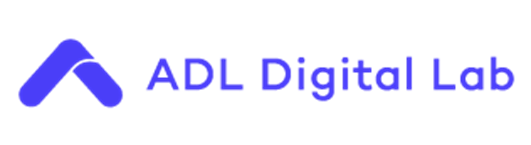
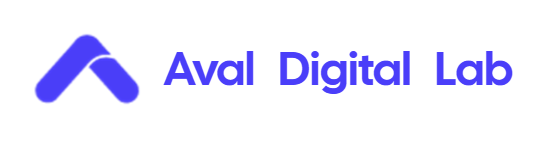
Refactor code structure for improved readability and maintainability

Changed region(s): [[0.0301, 0.2254, 0.9944, 0.7606]]

diff --git a/src/index.css b/src/index.css
@@ -10,7 +10,8 @@
     --card-foreground: 222.2 84% 4.9%;
     --popover: 0 0% 100%;
     --popover-foreground: 222.2 84% 4.9%;
-    --primary: 262.1 83.3% 57.8%; /* ADL: #6941C6 */
+  /* Primary updated to #4A3EF9 */
+  --primary: 244 94% 61%; /* #4A3EF9 in HSL */
     --primary-foreground: 210 40% 98%;
     --secondary: 210 40% 96.1%;
     --secondary-foreground: 222.2 47.4% 11.2%;
@@ -22,7 +23,7 @@
     --destructive-foreground: 210 40% 98%;
     --border: 214.3 31.8% 91.4%;
     --input: 214.3 31.8% 91.4%;
-    --ring: 262.1 83.3% 57.8%; /* ADL: #6941C6 */
+  --ring: 244 94% 61%; /* match primary */
     --radius: 0.5rem;
     
     /* Custom: Sidebar */
@@ -43,8 +44,8 @@
     --danger-light: 0 90.6% 97.5%; /* #FEF2F2 */
     --danger-foreground: 210 40% 98%;
     
-    /* Custom: Primary Light */
-    --primary-light: 262.1 83.3% 96%; /* Lightest version of #6941C6 */
+  /* Custom: Primary Light */
+  --primary-light: 244 100% 97%; /* Lightest version of #4A3EF9 */
   }
  
   .dark {
@@ -54,7 +55,7 @@
     --card-foreground: 210 40% 98%;
     --popover: 222.2 84% 4.9%;
     --popover-foreground: 210 40% 98%;
-    --primary: 262.1 83.3% 57.8%;
+  --primary: 244 94% 61%;
     --primary-foreground: 222.2 47.4% 11.2%;
     --secondary: 217.2 32.6% 17.5%;
     --secondary-foreground: 210 40% 98%;
@@ -66,7 +67,7 @@
     --destructive-foreground: 210 40% 98%;
     --border: 217.2 32.6% 17.5%;
     --input: 217.2 32.6% 17.5%;
-    --ring: 262.1 83.3% 57.8%;
+  --ring: 244 94% 61%;
     
     /* Custom: Sidebar */
     --sidebar: 222.2 84% 4.9%;
@@ -86,8 +87,8 @@
     --danger-light: 0 90.6% 20%;
     --danger-foreground: 210 40% 98%;
     
-    /* Custom: Primary Light - Darker for dark mode */
-    --primary-light: 262.1 83.3% 25%;
+  /* Custom: Primary Light - Darker for dark mode */
+  --primary-light: 244 94% 30%;
   }
 }
  

diff --git a/src/components/casos-uso/CasoUso.tsx b/src/components/casos-uso/CasoUso.tsx
@@ -1209,14 +1209,20 @@ const CasoUso: React.FC<CasoUsoProps> = ({ tipo, displayTitle }) => {
     <div className="container mx-auto p-6 space-y-6 h-full">
       <div className="flex flex-col space-y-4">
         <div className="flex items-center space-x-4">
-          <div className={`w-4 h-4 rounded-full ${casoInfo.color}`} />
-          <div>
-            <h1 className="text-3xl font-bold" title={casoInfo.nombre}>{tituloVisible}</h1>
-            <p className="text-muted-foreground">{displayTitle ? `Vista temporal basada en plantilla ${casoInfo.nombre}` : casoInfo.descripcion}</p>
-          </div>
-          <Badge variant="outline" className="text-green-600 border-green-600 ml-auto">
-            Activo
-          </Badge>
+          {!displayTitle && (
+            <div className={`w-4 h-4 rounded-full ${casoInfo.color}`} />
+          )}
+          {!displayTitle && (
+            <div>
+              <h1 className="text-3xl font-bold" title={casoInfo.nombre}>{tituloVisible}</h1>
+              <p className="text-muted-foreground">{displayTitle ? `Vista temporal basada en plantilla ${casoInfo.nombre}` : casoInfo.descripcion}</p>
+            </div>
+          )}
+          {!displayTitle && (
+            <Badge variant="outline" className="text-green-600 border-green-600 ml-auto">
+              Activo
+            </Badge>
+          )}
         </div>
 
         {/* Métricas por Pestañas - Ocupando todo el espacio */}

diff --git a/src/components/layout/Header.tsx b/src/components/layout/Header.tsx
@@ -1,5 +1,5 @@
 import React from "react";
-import { Bell, Menu, Moon, User } from "lucide-react";
+import { Menu } from "lucide-react";
 import { Button } from "@/components/ui/button";
 import { useMobile } from "@/hooks/use-mobile";
 
@@ -27,17 +27,6 @@ const Header: React.FC<HeaderProps> = ({ toggleSidebar }) => {
       
       <div className="flex items-center gap-2 md:gap-5">
         <h1 className="text-lg font-bold text-primary hidden sm:block">Aval Digital Labs</h1>
-        <div className="flex items-center gap-2 sm:gap-4">
-          <button className="icon-button group hidden sm:flex">
-            <User className="h-5 w-5 text-muted-foreground group-hover:text-primary transition-colors duration-200" />
-            <span className="tooltip -bottom-8 hidden sm:group-hover:inline-flex">Perfil de usuario</span>
-          </button>
-          <button className="icon-button relative group hidden sm:flex">
-            <Bell className="h-5 w-5 text-muted-foreground group-hover:text-primary transition-colors duration-200" />
-            <div className="absolute top-0 right-0 h-2 w-2 bg-primary rounded-full"></div>
-            <span className="tooltip -bottom-8 hidden sm:group-hover:inline-flex">Notificaciones</span>
-          </button>
-        </div>
       </div>
     </header>
   );

diff --git a/tailwind.config.ts b/tailwind.config.ts
@@ -35,10 +35,10 @@ export default {
 				background: 'hsl(var(--background))',
 				foreground: 'hsl(var(--foreground))',
 				primary: {
-					DEFAULT: '#6941C6',
+						DEFAULT: '#4A3EF9',
 					foreground: '#FFFFFF',
-					hover: '#5D37B0',
-					light: '#F9F5FF',
+						hover: '#3E35E3',
+						light: '#F3F4FF',
 				},
 				secondary: {
 					DEFAULT: 'hsl(var(--secondary))',
@@ -87,7 +87,7 @@ export default {
 				sidebar: {
 					DEFAULT: '#F9FAFB',
 					foreground: '#6B7280',
-					active: '#6941C6',
+						active: '#4A3EF9',
 					hover: '#E5E7EB',
 					border: '#E5E7EB',
 				}

diff --git a/src/components/ui/dashboard/FormControls.tsx b/src/components/ui/dashboard/FormControls.tsx
@@ -308,7 +308,7 @@ export const Slider: React.FC<SliderProps> = ({
           onChange={handleChange}
           className="w-full h-2 bg-muted rounded-md appearance-none cursor-pointer"
           style={{
-            background: `linear-gradient(to right, #6941C6 0%, #6941C6 ${percentage}%, #F3F4F6 ${percentage}%, #F3F4F6 100%)`,
+            background: `linear-gradient(to right, #4A3EF9 0%, #4A3EF9 ${percentage}%, #F3F4F6 ${percentage}%, #F3F4F6 100%)`,
           }}
         />
       </div>

diff --git a/src/components/ui/dashboard/BarChart.tsx b/src/components/ui/dashboard/BarChart.tsx
@@ -26,7 +26,7 @@ const BarChart: React.FC<BarChartProps> = ({ data, title, subtitle }) => {
           <Tooltip
             contentStyle={{ border: "none", boxShadow: "0 4px 6px rgba(0, 0, 0, 0.1)", borderRadius: "0.375rem" }}
           />
-          <Bar dataKey="value" fill="#6941C6" barSize={30} radius={[4, 4, 0, 0]} />
+          <Bar dataKey="value" fill="#4A3EF9" barSize={30} radius={[4, 4, 0, 0]} />
         </RechartsBarChart>
       </ResponsiveContainer>
     </div>

diff --git a/src/pages/dashboard/EntityCasosUso.tsx b/src/pages/dashboard/EntityCasosUso.tsx
@@ -262,7 +262,7 @@ const EntityCasosUso = () => {
               <img 
                 src={entidad.logo_url} 
                 alt={`Logo ${entidad.id_nombre}`}
-                className="w-full h-full object-contain brightness-0"
+                className="w-full h-full object-contain"
                 onError={(e) => {
                   e.currentTarget.style.display = 'none';
                   const nextElement = e.currentTarget.nextElementSibling as HTMLElement;

diff --git a/src/pages/Login.tsx b/src/pages/Login.tsx
@@ -84,7 +84,7 @@ const Login = () => {
               
               <Button 
                 type="submit"
-                className="w-full py-6 bg-[#6941C6] hover:bg-[#5729B3] text-white rounded-xl"
+                className="w-full py-6 bg-primary hover:bg-primary/90 text-white rounded-xl"
               >
                 <LogIn className="mr-2" />
                 Ingresar
